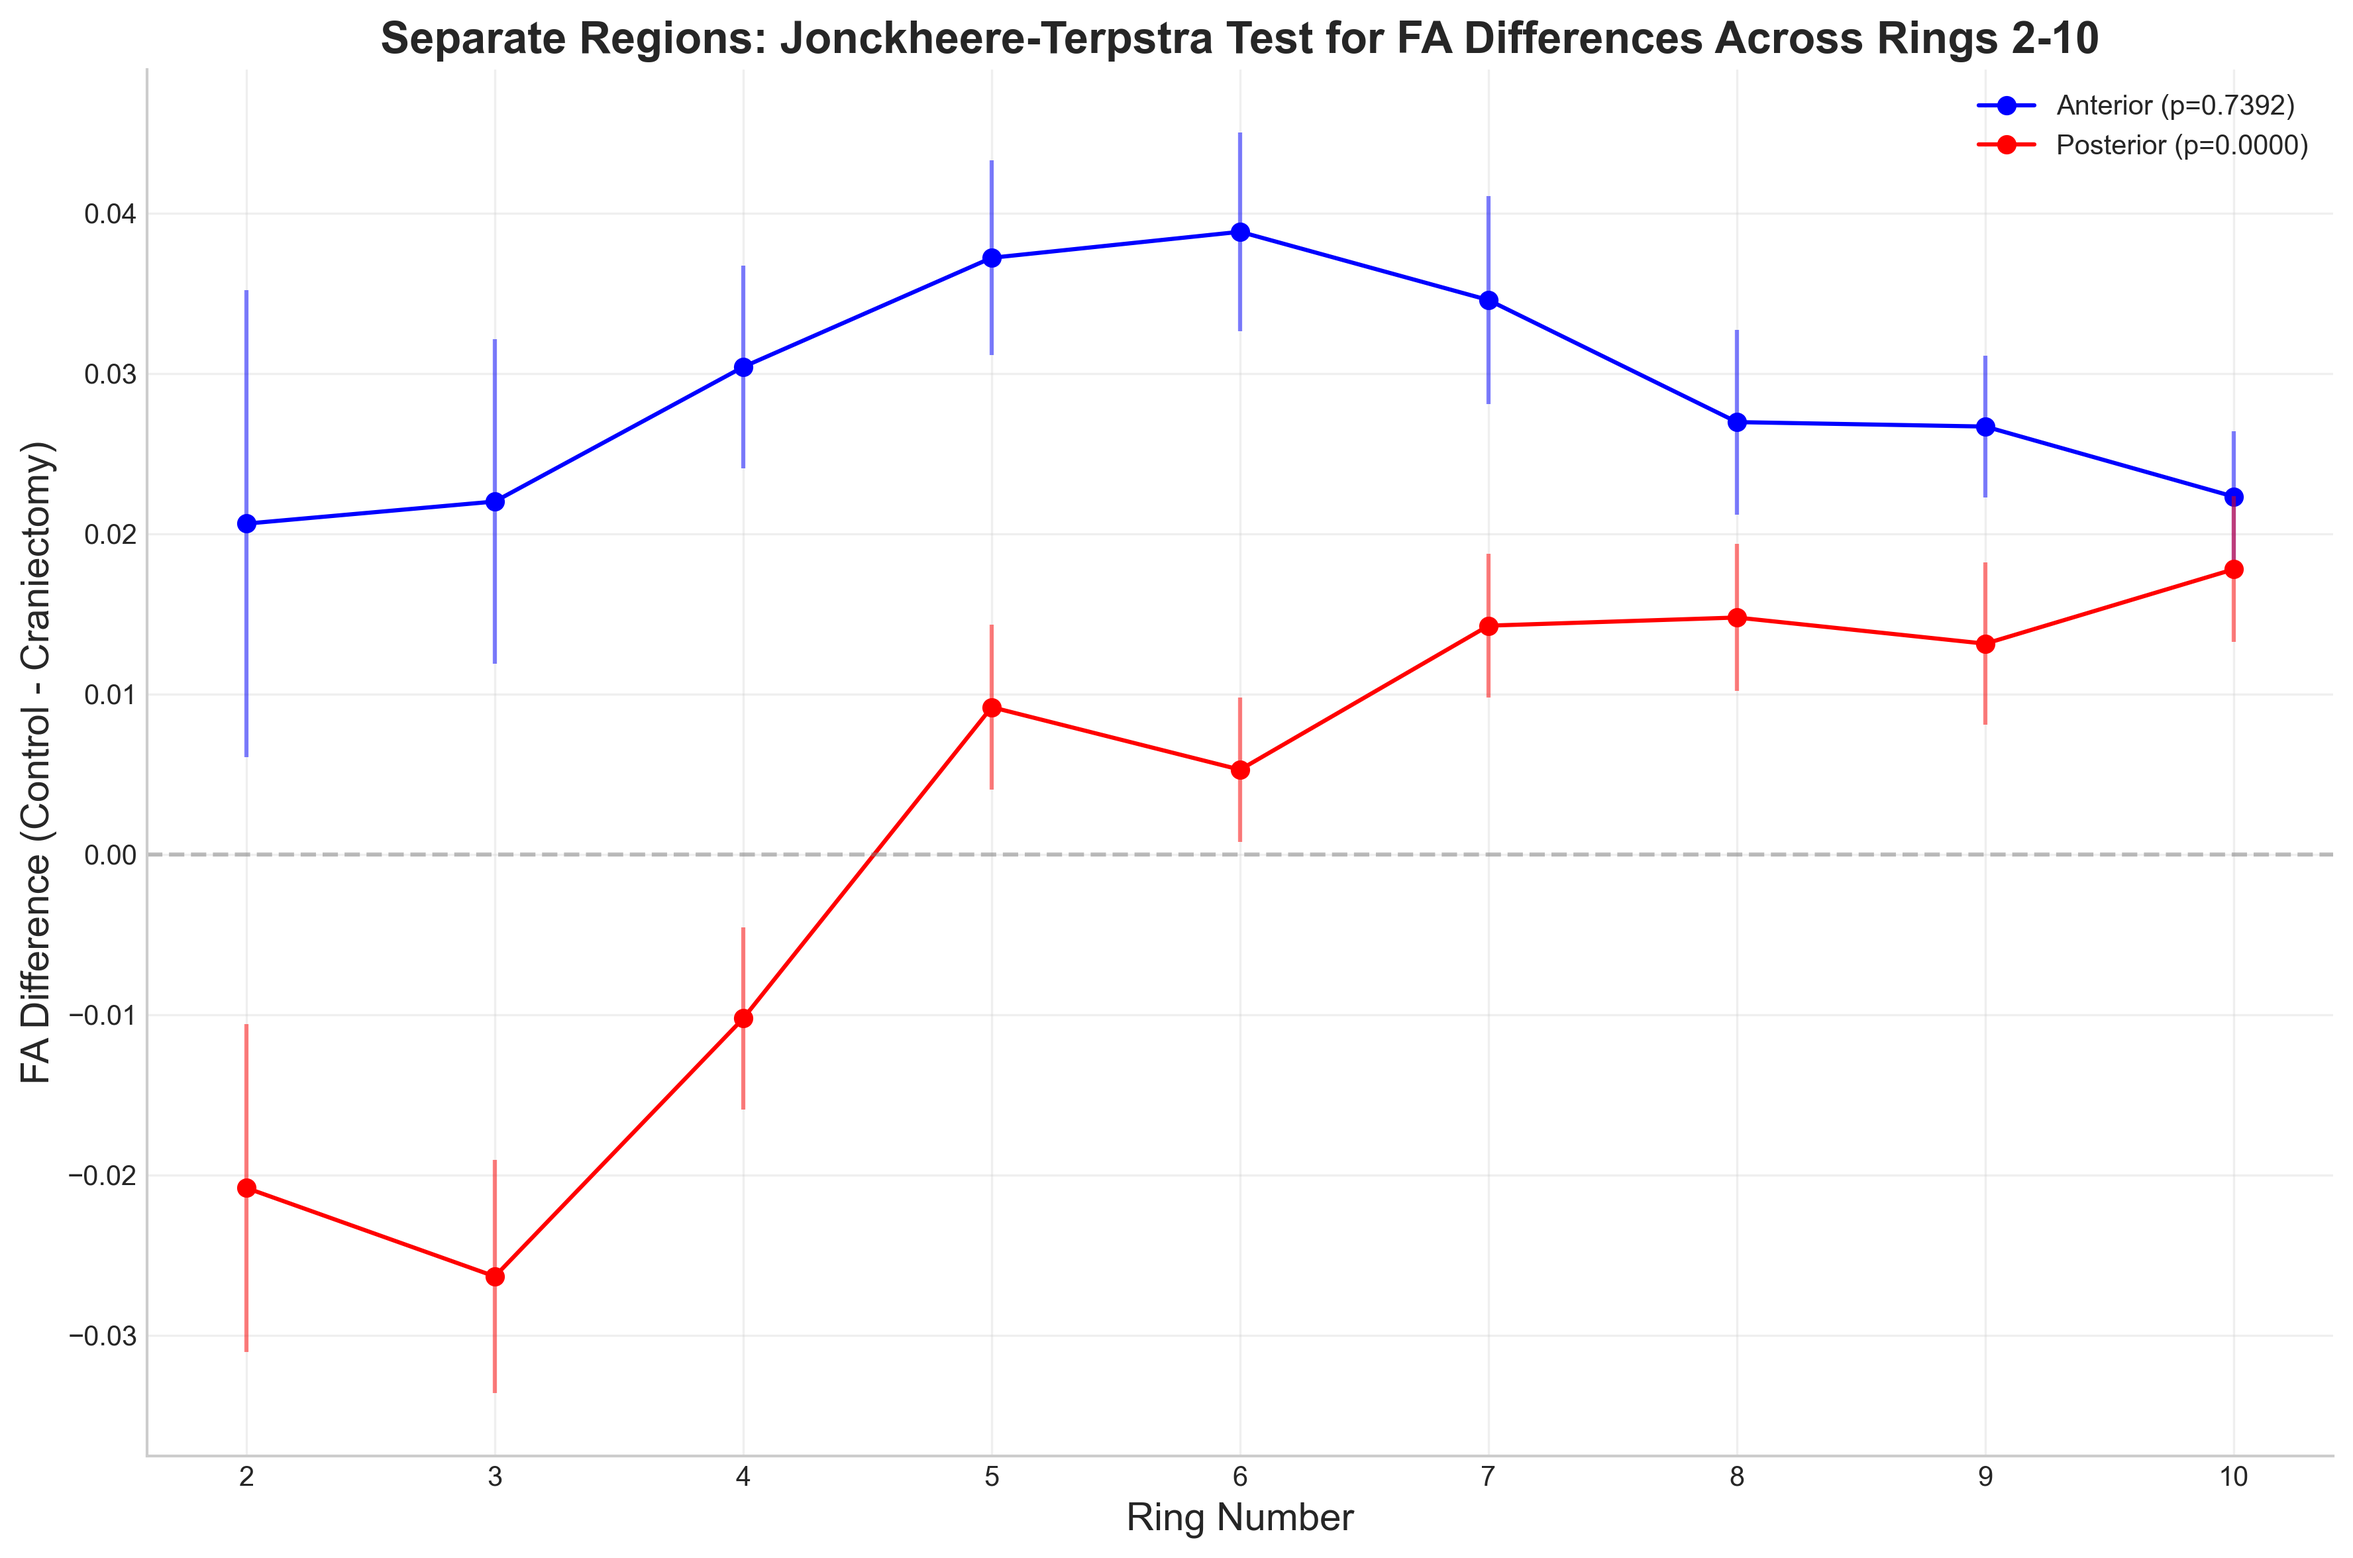
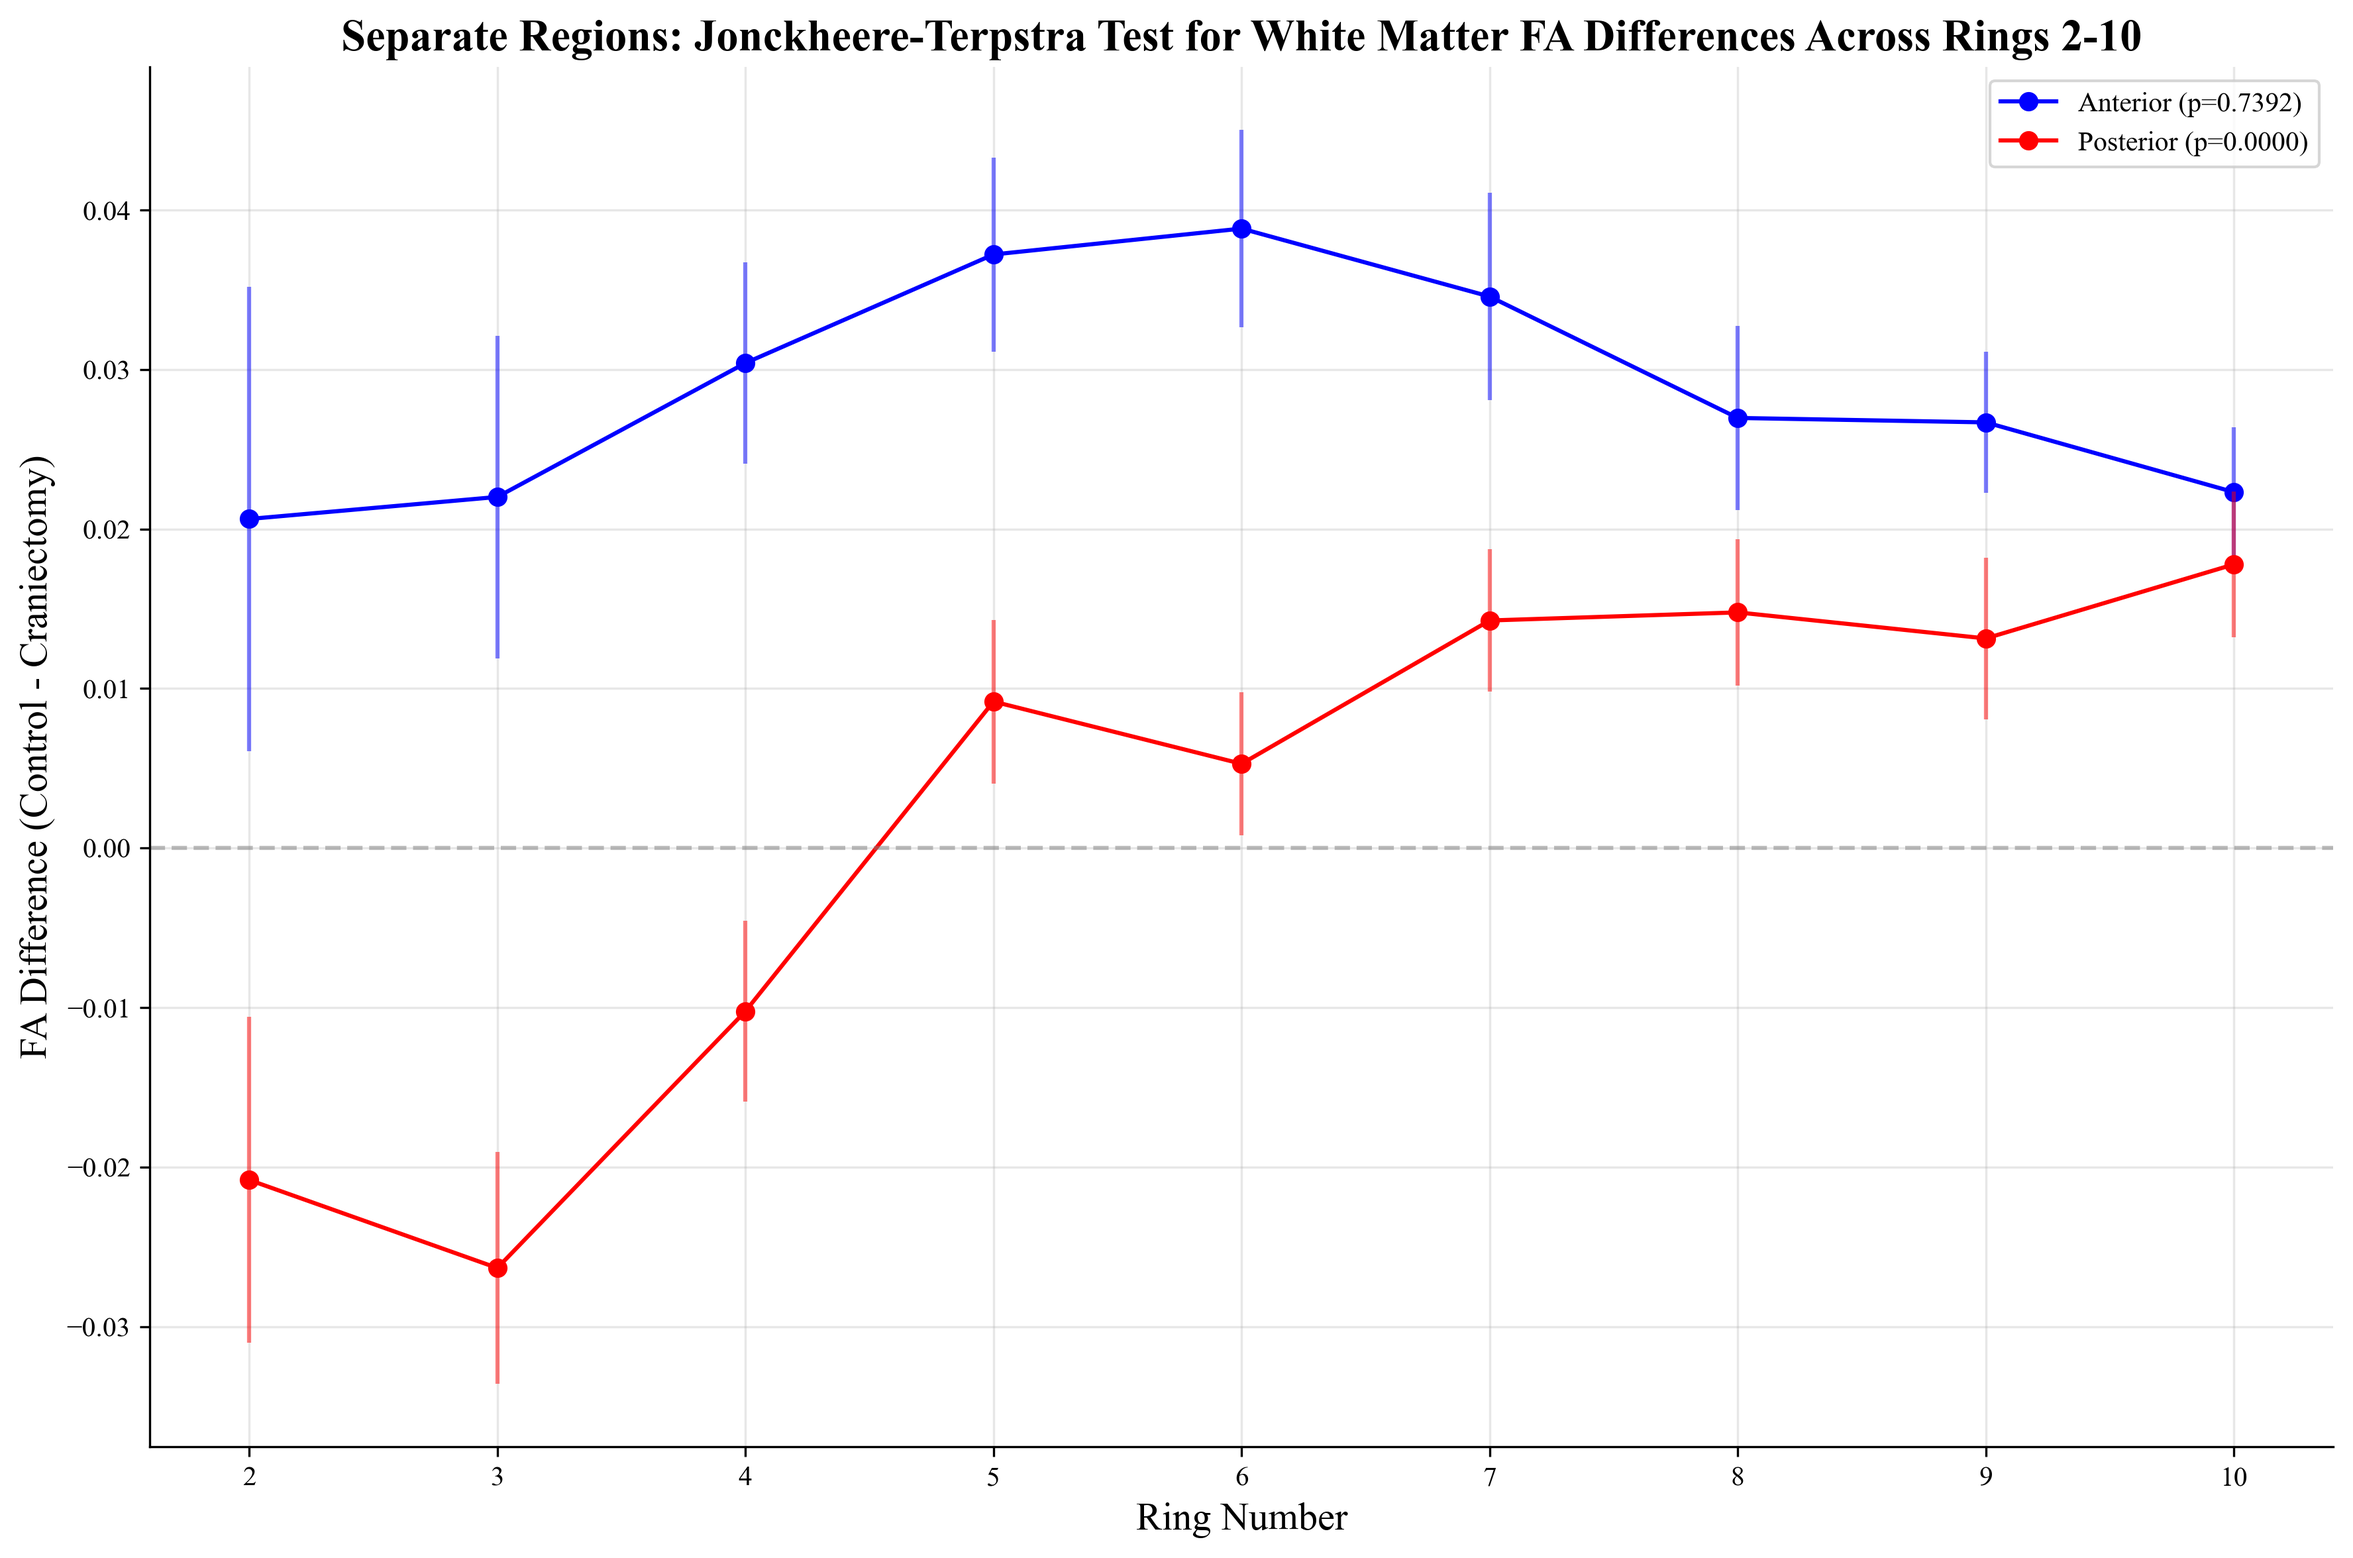
JT test for FA and MD rings 2-10

diff --git a/DTI_Processing_Scripts/dti_results_plotting_main.py b/DTI_Processing_Scripts/dti_results_plotting_main.py
@@ -497,7 +497,11 @@ def jt_test(df, parameter='fa', regions=(2,10), save_path=None, alternative='inc
         
     # Set publication style
     try:
-        plt.style.use('seaborn-whitegrid')
+        # plt.style.use('seaborn-whitegrid')
+        set_publication_style()
+        plt.rcParams.update({
+            'font.size': 14
+        })
     except:
         try:
             plt.style.use('seaborn-v0_8-whitegrid')  # For newer matplotlib versions
@@ -679,10 +683,10 @@ def jt_test(df, parameter='fa', regions=(2,10), save_path=None, alternative='inc
     ax.set_ylabel(f"{parameter.upper()} Difference (Control - Craniectomy)", fontsize=14)
     ax.set_xticks(ring_numbers)
     ax.grid(True, alpha=0.3)
-    ax.legend(loc='best')
+    ax.legend(loc='upper right')
     
     title_prefix = "Combined" if combine_regions else "Separate"
-    plt.title(f"{title_prefix} Regions: Jonckheere-Terpstra Test for {parameter.upper()} Differences Across Rings {start_ring}-{end_ring}", 
+    plt.title(f"{title_prefix} Regions: Jonckheere-Terpstra Test for White Matter {parameter.upper()} Differences Across Rings {start_ring}-{end_ring}", 
              fontsize=16)
     plt.tight_layout()
     
@@ -1861,6 +1865,15 @@ if __name__ == '__main__':
     print(results)
     results = jt_test(df=wm_data_10x4vox, parameter='fa', regions=(2, 10), 
                     save_path='DTI_Processing_Scripts/jt_test_results-fa-rings-combined-2to10.png', alternative='increasing', combine_regions=True)
+
+    print(results)
+
+    results = jt_test(df=wm_data_10x4vox, parameter='md', regions=(2, 10), 
+                    save_path='DTI_Processing_Scripts/jt_test_results-md-rings-2to10.png', alternative='increasing')
+
+    print(results)
+    results = jt_test(df=wm_data_10x4vox, parameter='md', regions=(2, 10), 
+                    save_path='DTI_Processing_Scripts/jt_test_results-md-rings-combined-2to10.png', alternative='increasing', combine_regions=True)
 
     print(results)
 
